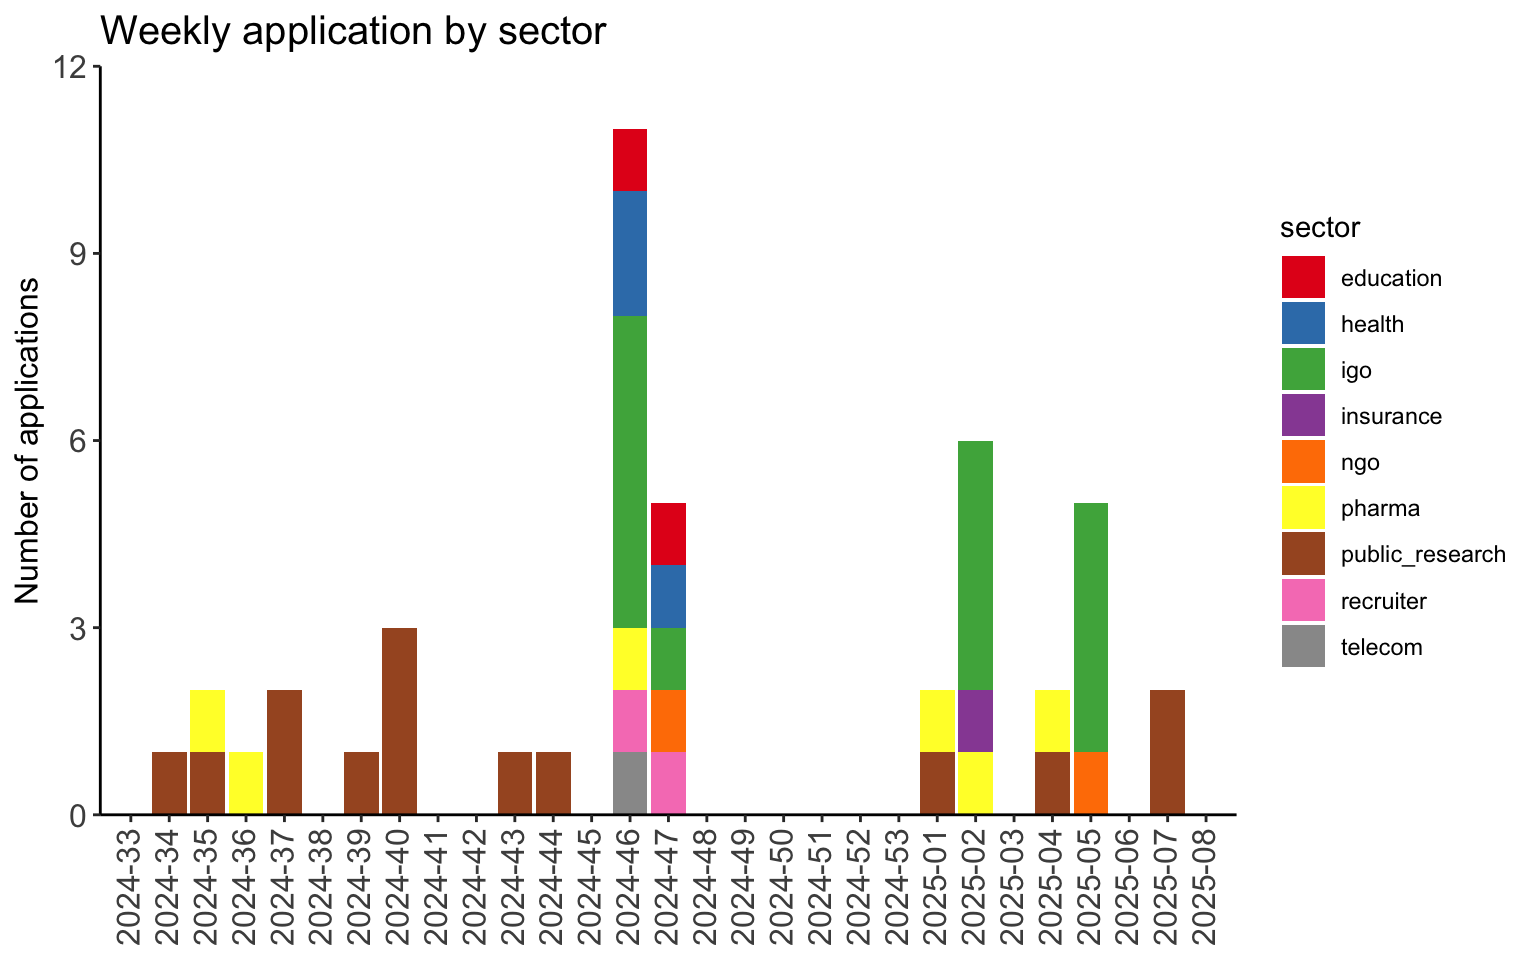
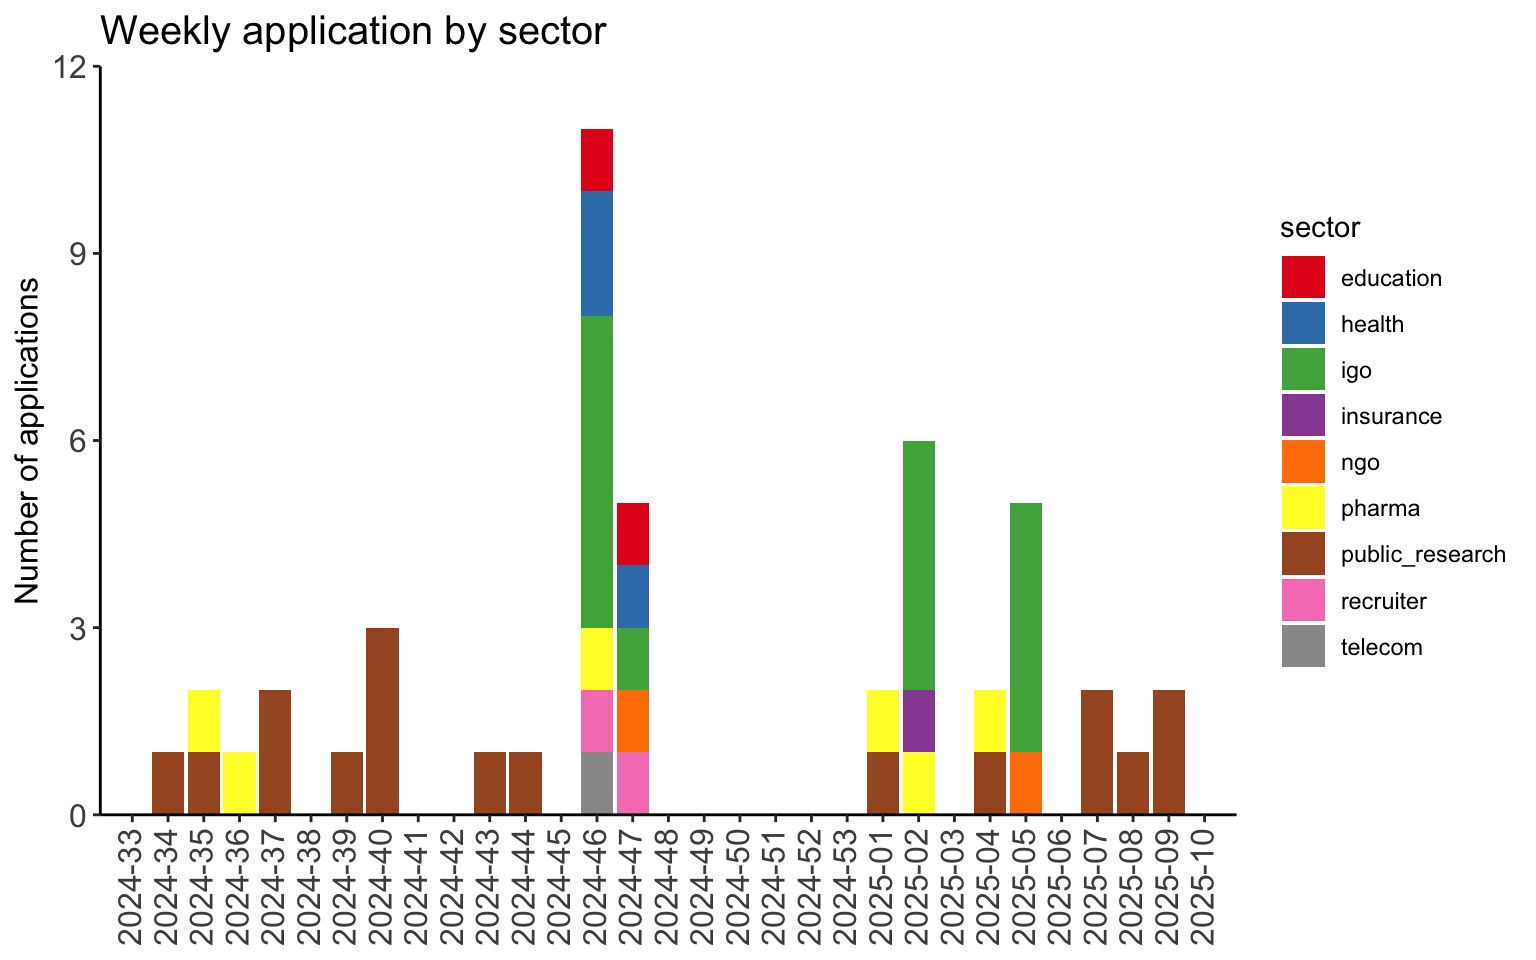
update data 2025 week 9

Changed region(s): [[0.0625, 0.125, 0.8125, 1.0]]

diff --git a/docs/index.html b/docs/index.html
@@ -136,7 +136,7 @@ grid-auto-rows: minmax(0, 1fr);">
 Applied
 </p>
 <p class="value-box-value">
-45
+48
 </p>
 </div>
 </div>
@@ -152,7 +152,7 @@ Applied
 Ghosted
 </p>
 <p class="value-box-value">
-24
+27
 </p>
 </div>
 </div>
